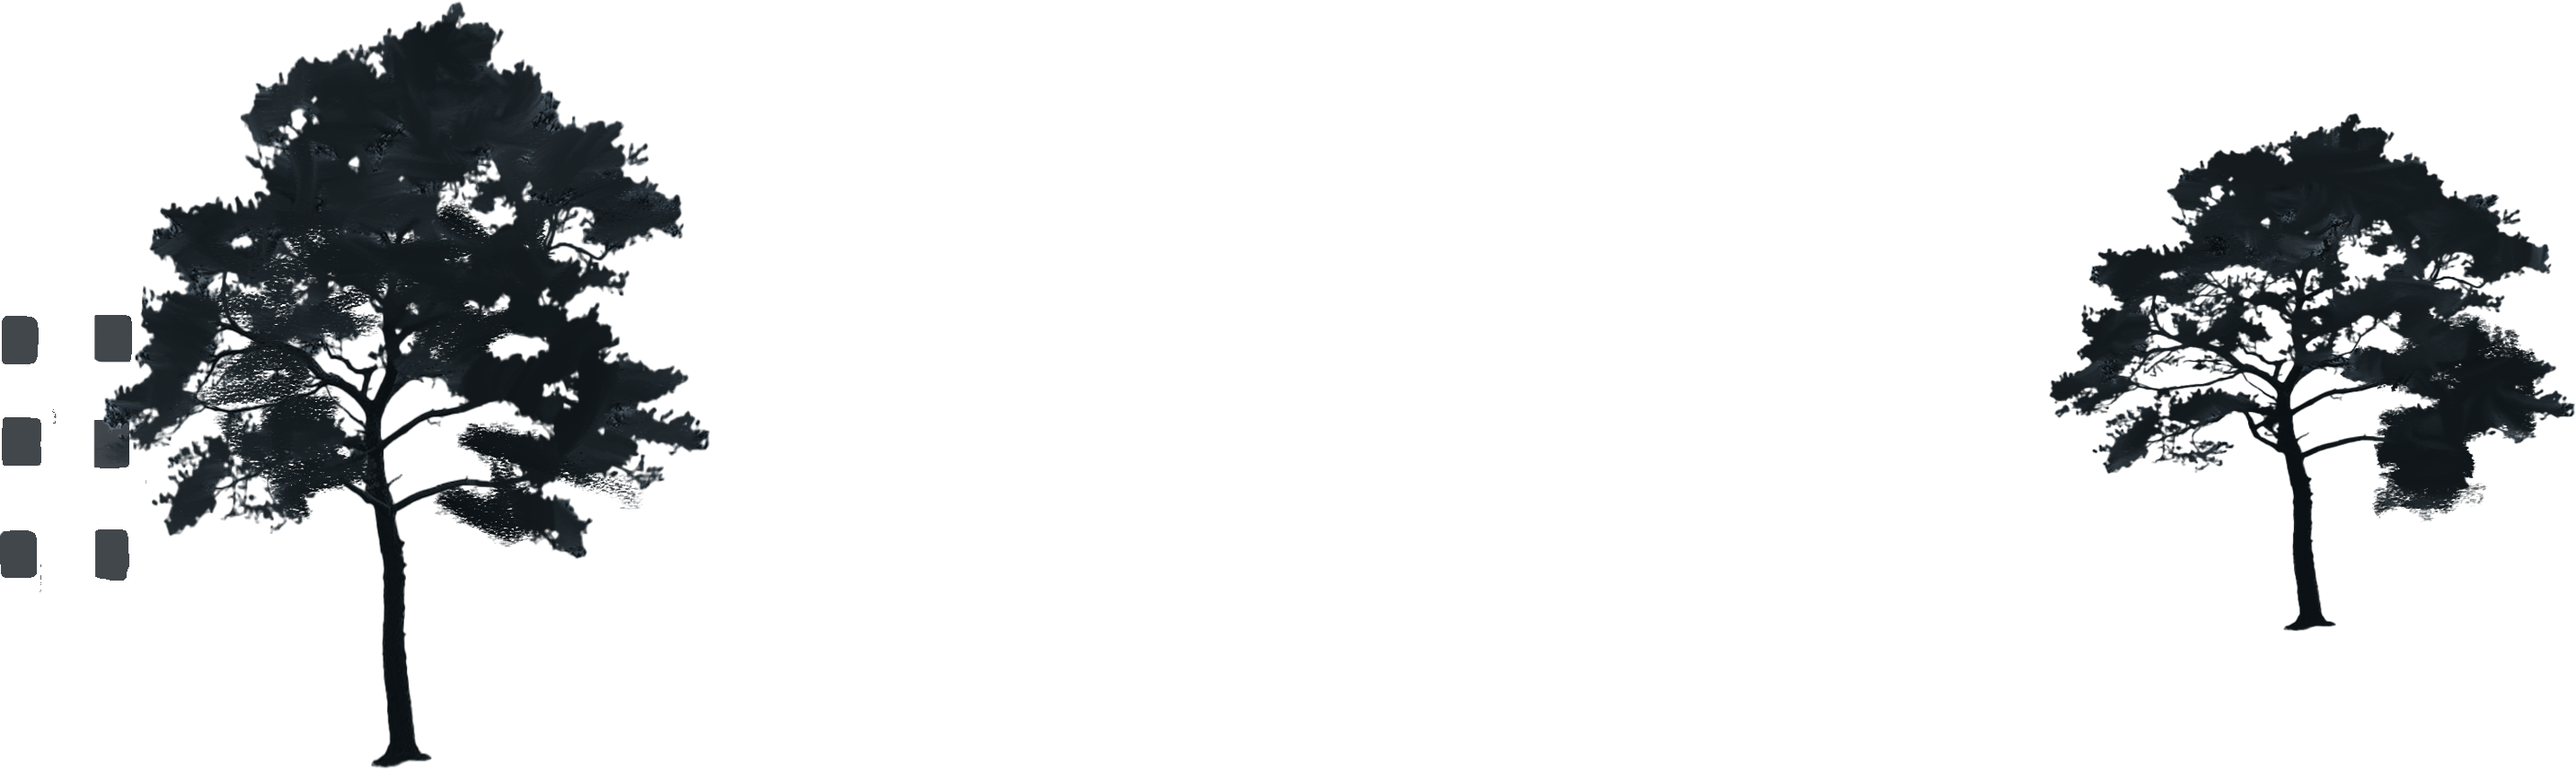
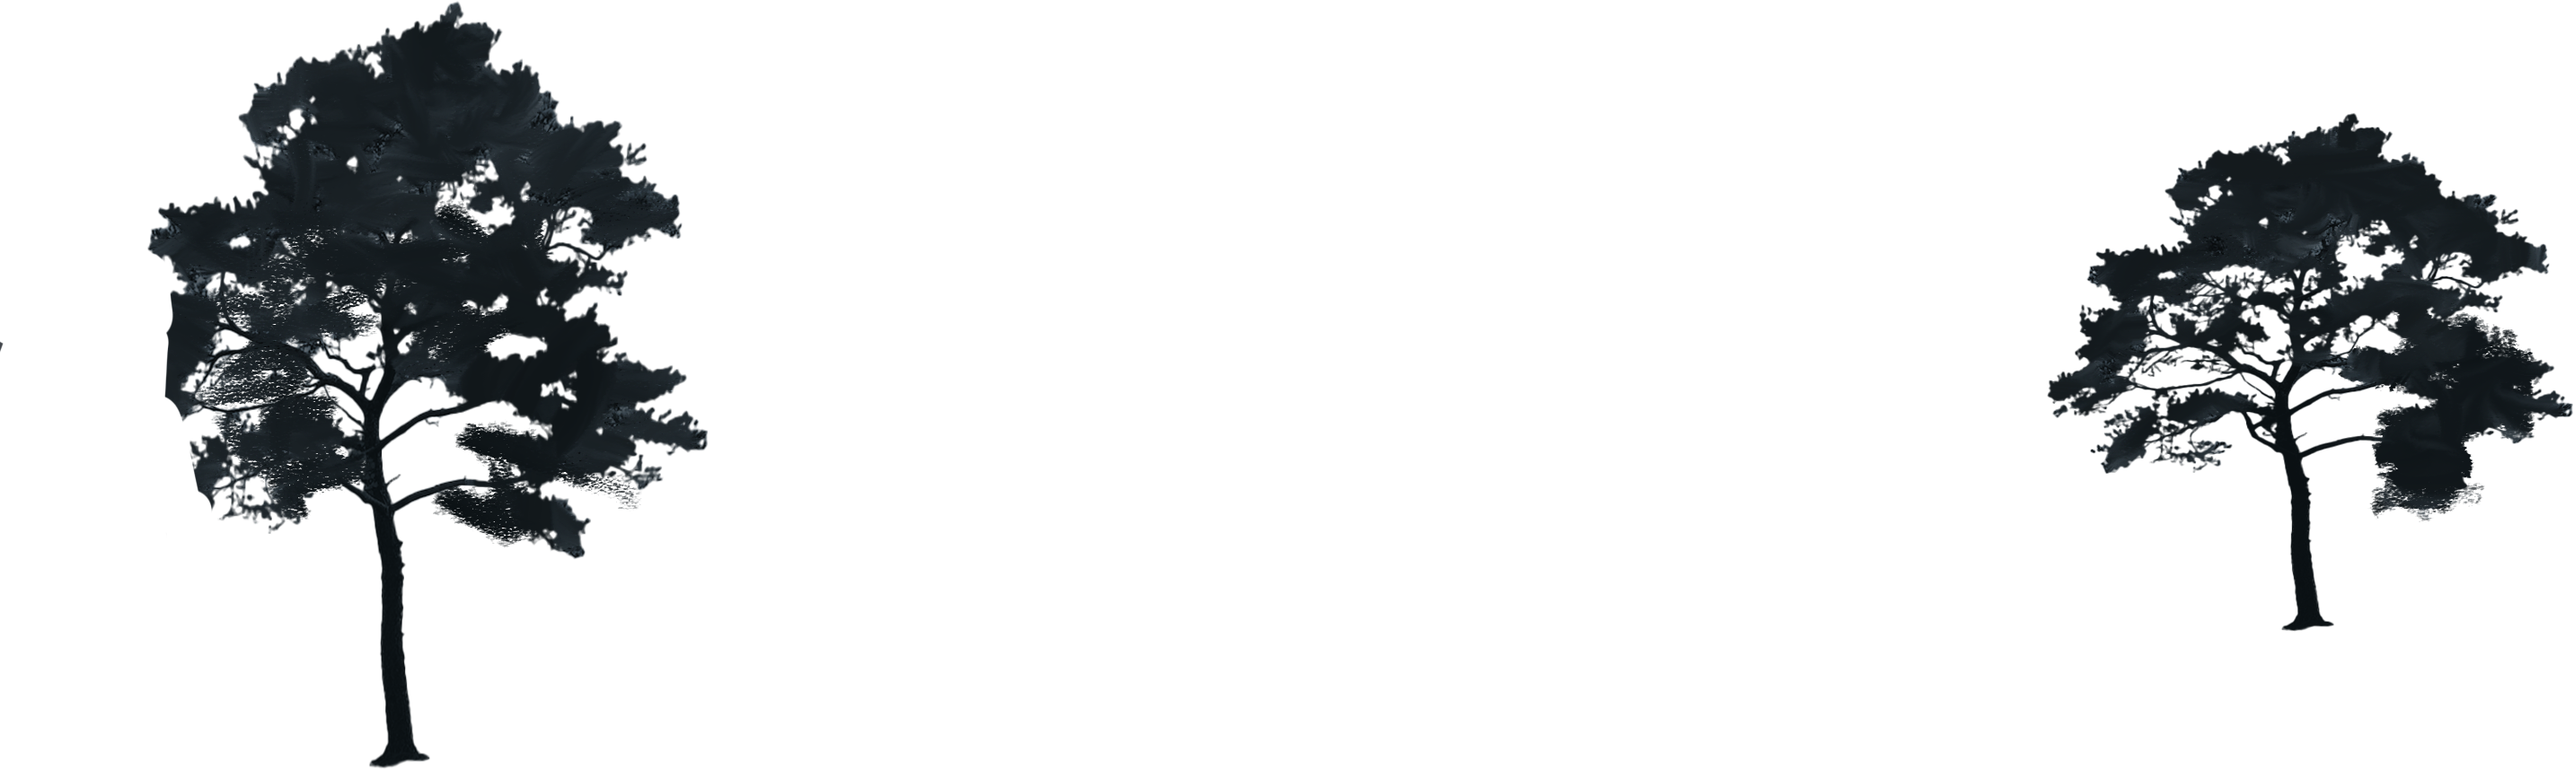
Rough parallax implement

diff --git a/Assets/Team/Magnus/Test Parallax scripts/ParallaxBackground.cs b/Assets/Team/Magnus/Test Parallax scripts/ParallaxBackground.cs
@@ -1,0 +1,44 @@
+using System.Collections.Generic;
+using UnityEngine;
+ 
+[ExecuteInEditMode]
+public class ParallaxBackground : MonoBehaviour
+{
+    public ParallaxCamera parallaxCamera;
+    List<ParallaxLayer> parallaxLayers = new List<ParallaxLayer>();
+ 
+    void Start()
+    {
+        if (parallaxCamera == null)
+            parallaxCamera = Camera.main.GetComponent<ParallaxCamera>();
+ 
+        if (parallaxCamera != null)
+            parallaxCamera.onCameraTranslate += Move;
+ 
+        SetLayers();
+    }
+ 
+    void SetLayers()
+    {
+        parallaxLayers.Clear();
+ 
+        for (int i = 0; i < transform.childCount; i++)
+        {
+            ParallaxLayer layer = transform.GetChild(i).GetComponent<ParallaxLayer>();
+ 
+            if (layer != null)
+            {
+                layer.name = "Layer-" + i;
+                parallaxLayers.Add(layer);
+            }
+        }
+    }
+ 
+    void Move(float delta)
+    {
+        foreach (ParallaxLayer layer in parallaxLayers)
+        {
+            layer.Move(delta);
+        }
+    }
+}

diff --git a/Assets/Team/Magnus/Test Parallax scripts/ParallaxCamera.cs b/Assets/Team/Magnus/Test Parallax scripts/ParallaxCamera.cs
@@ -1,0 +1,29 @@
+using UnityEngine;
+ 
+[ExecuteInEditMode]
+public class ParallaxCamera : MonoBehaviour
+{
+    public delegate void ParallaxCameraDelegate(float deltaMovement);
+    public ParallaxCameraDelegate onCameraTranslate;
+ 
+    private float oldPosition;
+ 
+    void Start()
+    {
+        oldPosition = transform.position.x;
+    }
+ 
+    void Update()
+    {
+        if (transform.position.x != oldPosition)
+        {
+            if (onCameraTranslate != null)
+            {
+                float delta = oldPosition - transform.position.x;
+                onCameraTranslate(delta);
+            }
+ 
+            oldPosition = transform.position.x;
+        }
+    }
+}

diff --git a/Assets/Team/Magnus/Test Parallax scripts/ParallaxLayer.cs b/Assets/Team/Magnus/Test Parallax scripts/ParallaxLayer.cs
@@ -1,0 +1,16 @@
+using UnityEngine;
+ 
+[ExecuteInEditMode]
+public class ParallaxLayer : MonoBehaviour
+{
+    public float parallaxFactor;
+ 
+    public void Move(float delta)
+    {
+        Vector3 newPos = transform.localPosition;
+        newPos.x -= delta * parallaxFactor;
+ 
+        transform.localPosition = newPos;
+    }
+ 
+}
